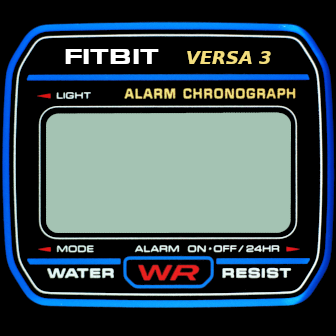
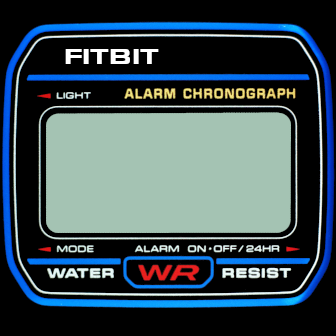
detect device type (Versa 3 / Sense)

Changed region(s): [[0.5357, 0.1488, 0.744, 0.2083], [0.7738, 0.1488, 0.8036, 0.2083]]

diff --git a/app/index.js b/app/index.js
@@ -2,8 +2,9 @@ import clock from "clock";
 import * as document from "document";
 import { preferences } from "user-settings";
 import * as util from "../common/utils";
+import { me as device } from "device";
 
-var weekdays = ["SUN", "MON", "TUE", "WED", "THU", "FRI", "SAT"]
+var weekdays = ["SUN", "MON", "TUE", "WED", "THU", "FRI", "SAT"];
 
 // Update the clock every second
 clock.granularity = "seconds";
@@ -13,6 +14,8 @@ const hoursmins = document.getElementById("hoursmins");
 const seconds = document.getElementById("seconds");
 const ampm = document.getElementById("ampm");
 const day = document.getElementById("day");
+const model = document.getElementById("model");
+model.text = `${device.modelName.toUpperCase()}`;
 
 // Update the <text> element every tick with the current time
 clock.ontick = (evt) => {

diff --git a/resources/styles.css b/resources/styles.css
@@ -41,3 +41,13 @@
   y: 154;
   fill: black;
 }
+
+#model {
+  font-size: 22;
+  font-family: System-Bold;
+  text-length: 32;
+  text-anchor: end;
+  x: 270;
+  y: 64;
+  fill: #f3de7e;
+}
